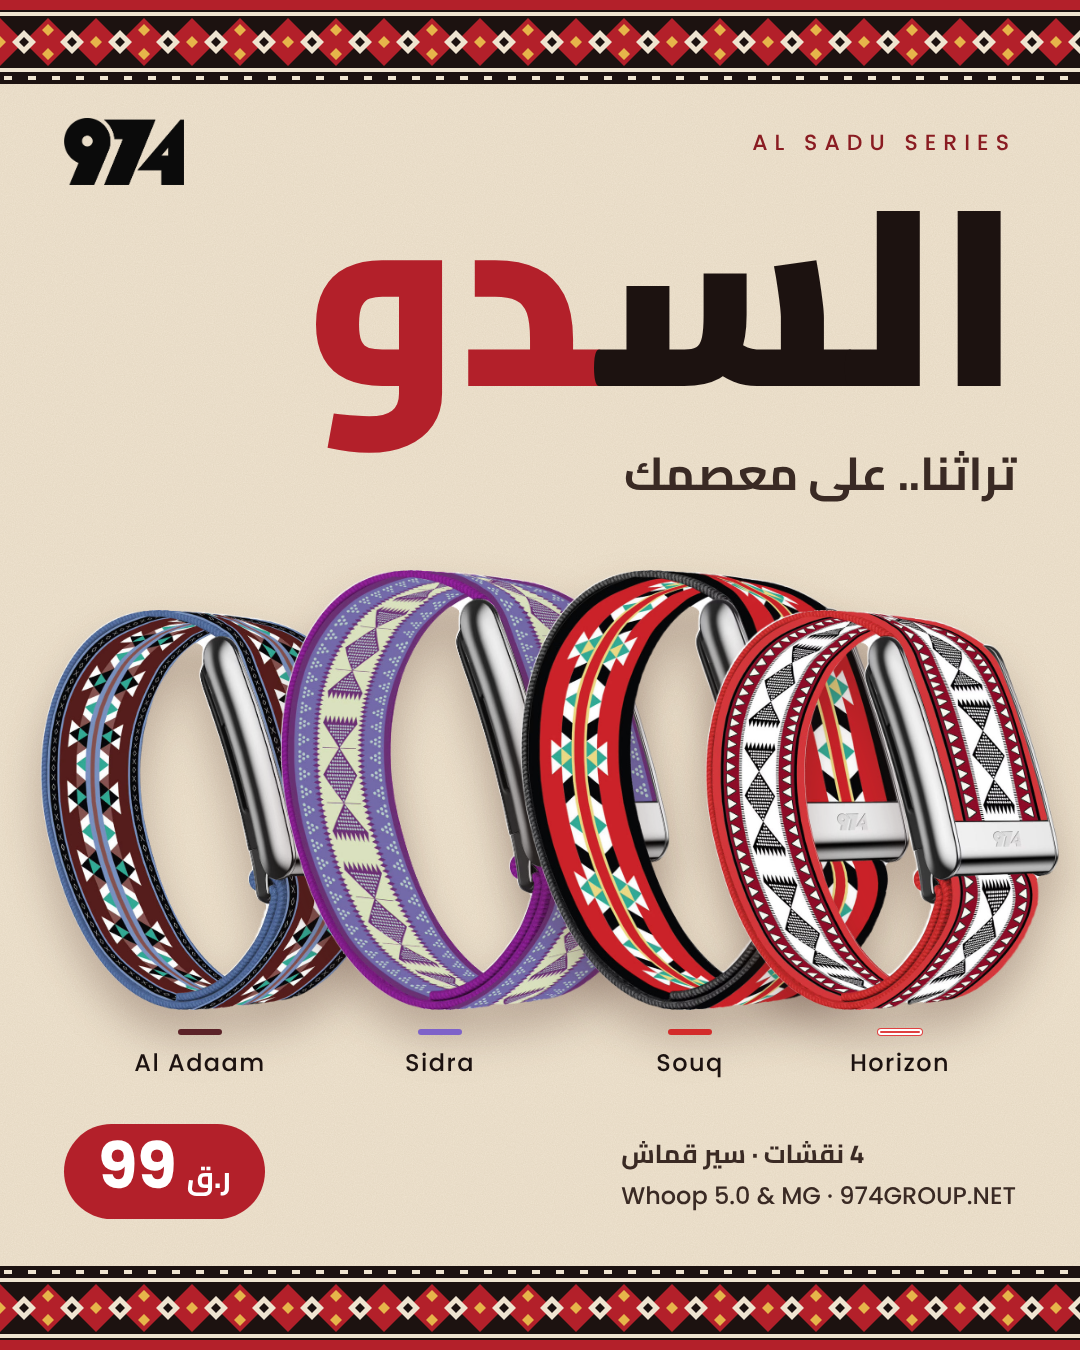
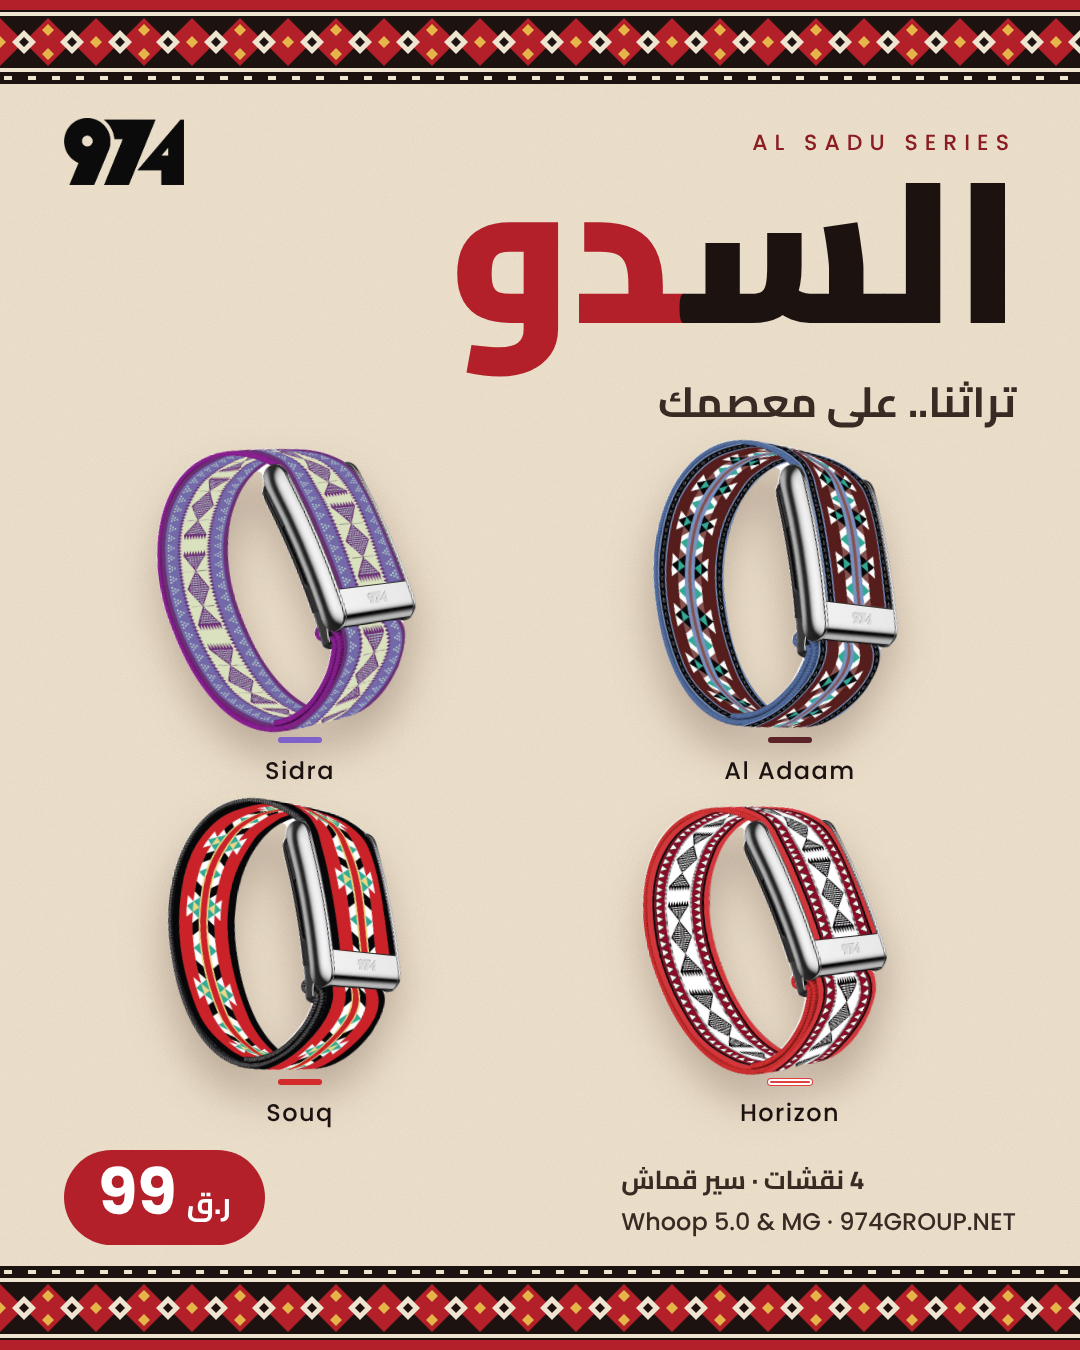
Sadu post 1: bands no longer overlap
Claude-Session: https://claude.ai/code/session_01K6HDWNrArsGSJekW1VcEzV

diff --git a/posts/2026-11/sadu/src/d.html b/posts/2026-11/sadu/src/d.html
@@ -63,19 +63,19 @@ img{display:block}
   <div class="strip sA" style="top:0;height:84px"></div>
   <img class="logo" src="logo-black.png">
   <div class="kick en">AL SADU SERIES</div>
-  <h1 class="ar" style="top:170px">الس<b>دو</b></h1>
-  <div class="sub ar" style="top:430px">تراثنا.. على معصمك</div>
-  <div class="row" style="top:520px">
-    <img class="band" src="adaam.png"   style="left:40px;height:400px">
-    <img class="band" src="sidra.png"   style="left:280px;height:440px">
-    <img class="band" src="souq.png"    style="left:520px;height:440px">
-    <img class="band" src="horizon.png" style="left:705px;height:400px">
-    <div class="nm en" style="left:200px"><i style="background:#5B2228"></i>Al Adaam</div>
-    <div class="nm en" style="left:440px"><i style="background:#7E62C9"></i>Sidra</div>
-    <div class="nm en" style="left:690px"><i style="background:#D32B2B"></i>Souq</div>
-    <div class="nm en" style="left:900px"><i style="background:#E04040;box-shadow:inset 0 0 0 2px #fff,0 0 0 1px #E04040"></i>Horizon</div>
+  <h1 class="ar" style="top:150px;font-size:200px">الس<b>دو</b></h1>
+  <div class="sub ar" style="top:362px;font-size:42px">تراثنا.. على معصمك</div>
+  <div class="row" style="top:440px;height:690px">
+    <img class="band" src="sidra.png"   style="left:160px;bottom:400px;height:285px;transform:rotate(-7deg)">
+    <img class="band" src="adaam.png"   style="left:650px;bottom:400px;height:285px;transform:rotate(7deg)">
+    <img class="band" src="souq.png"    style="left:165px;bottom:58px;height:270px;transform:rotate(6deg)">
+    <img class="band" src="horizon.png" style="left:645px;bottom:58px;height:270px;transform:rotate(-6deg)">
+    <div class="nm en" style="left:300px;bottom:342px"><i style="background:#7E62C9"></i>Sidra</div>
+    <div class="nm en" style="left:790px;bottom:342px"><i style="background:#5B2228"></i>Al Adaam</div>
+    <div class="nm en" style="left:300px;bottom:0"><i style="background:#D32B2B"></i>Souq</div>
+    <div class="nm en" style="left:790px;bottom:0"><i style="background:#E04040;box-shadow:inset 0 0 0 2px #fff,0 0 0 1px #E04040"></i>Horizon</div>
   </div>
-  <div class="foot" style="top:1124px">
+  <div class="foot" style="top:1150px">
     <div class="price"><b class="en">99</b><span class="ar">ر.ق</span></div>
     <div class="meta"><span class="ar">4 نقشات · سير قماش</span><span class="en">Whoop 5.0 &amp; MG · 974GROUP.NET</span></div>
   </div>
